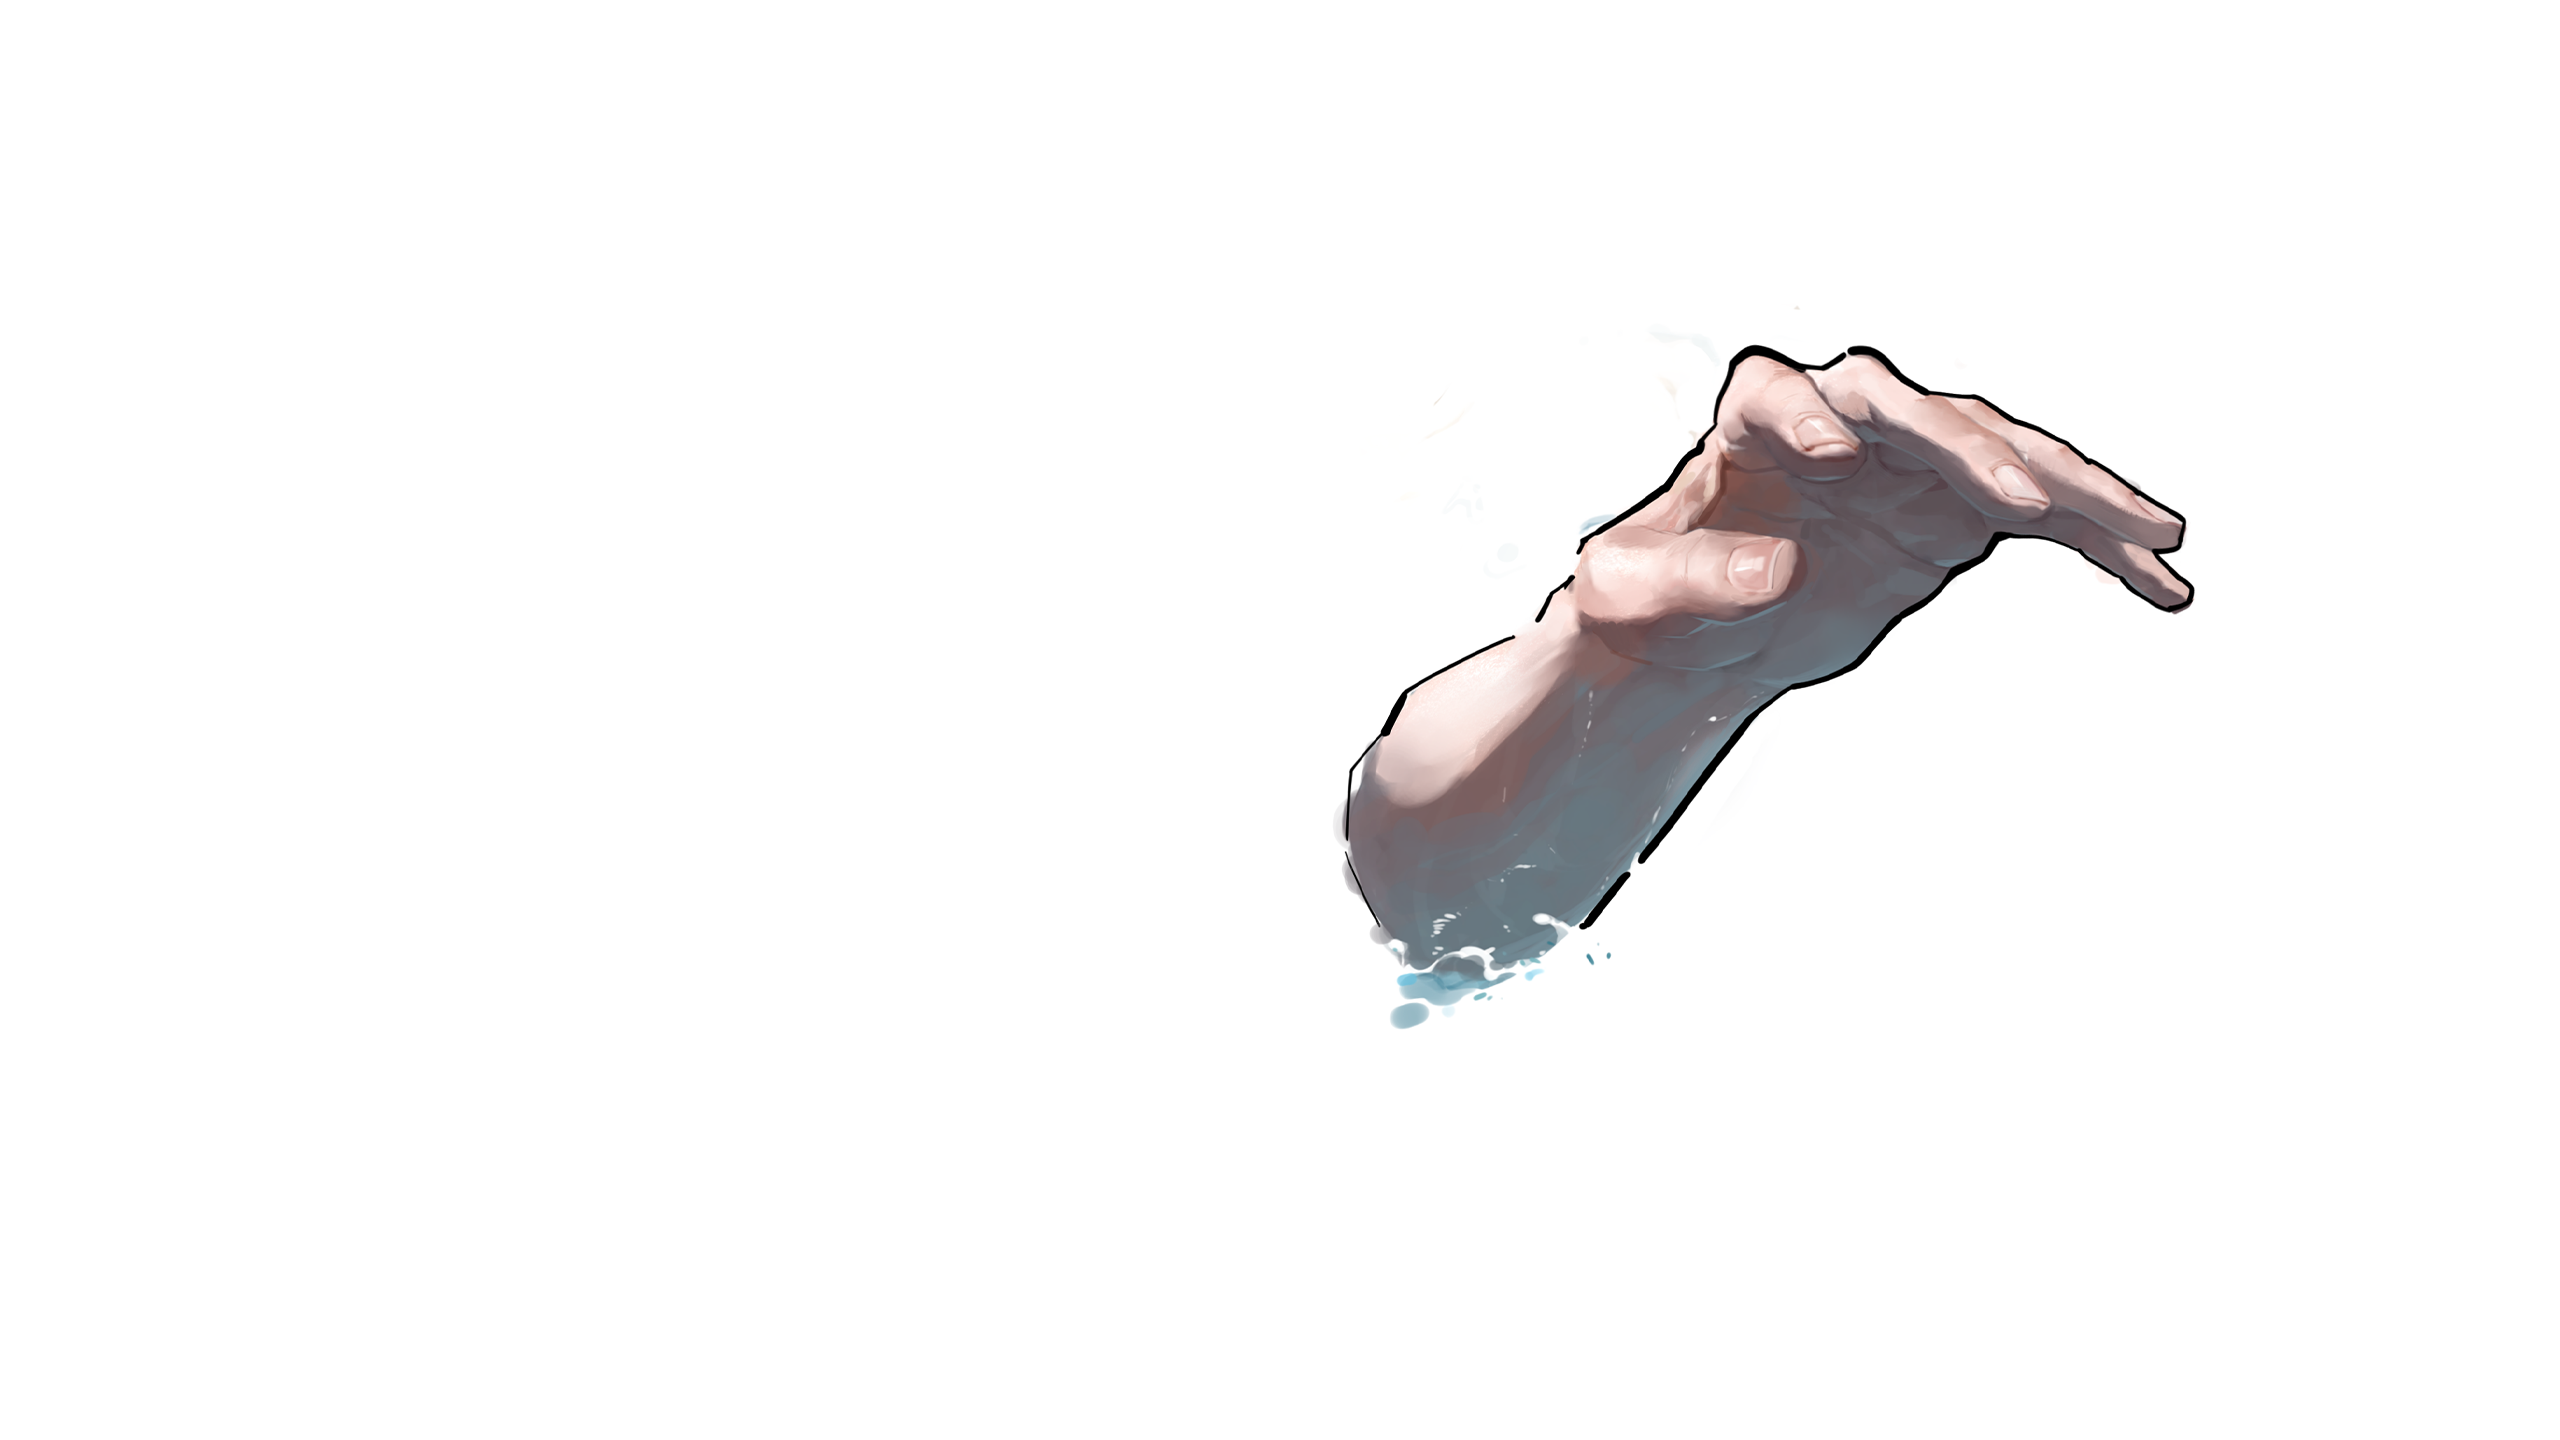
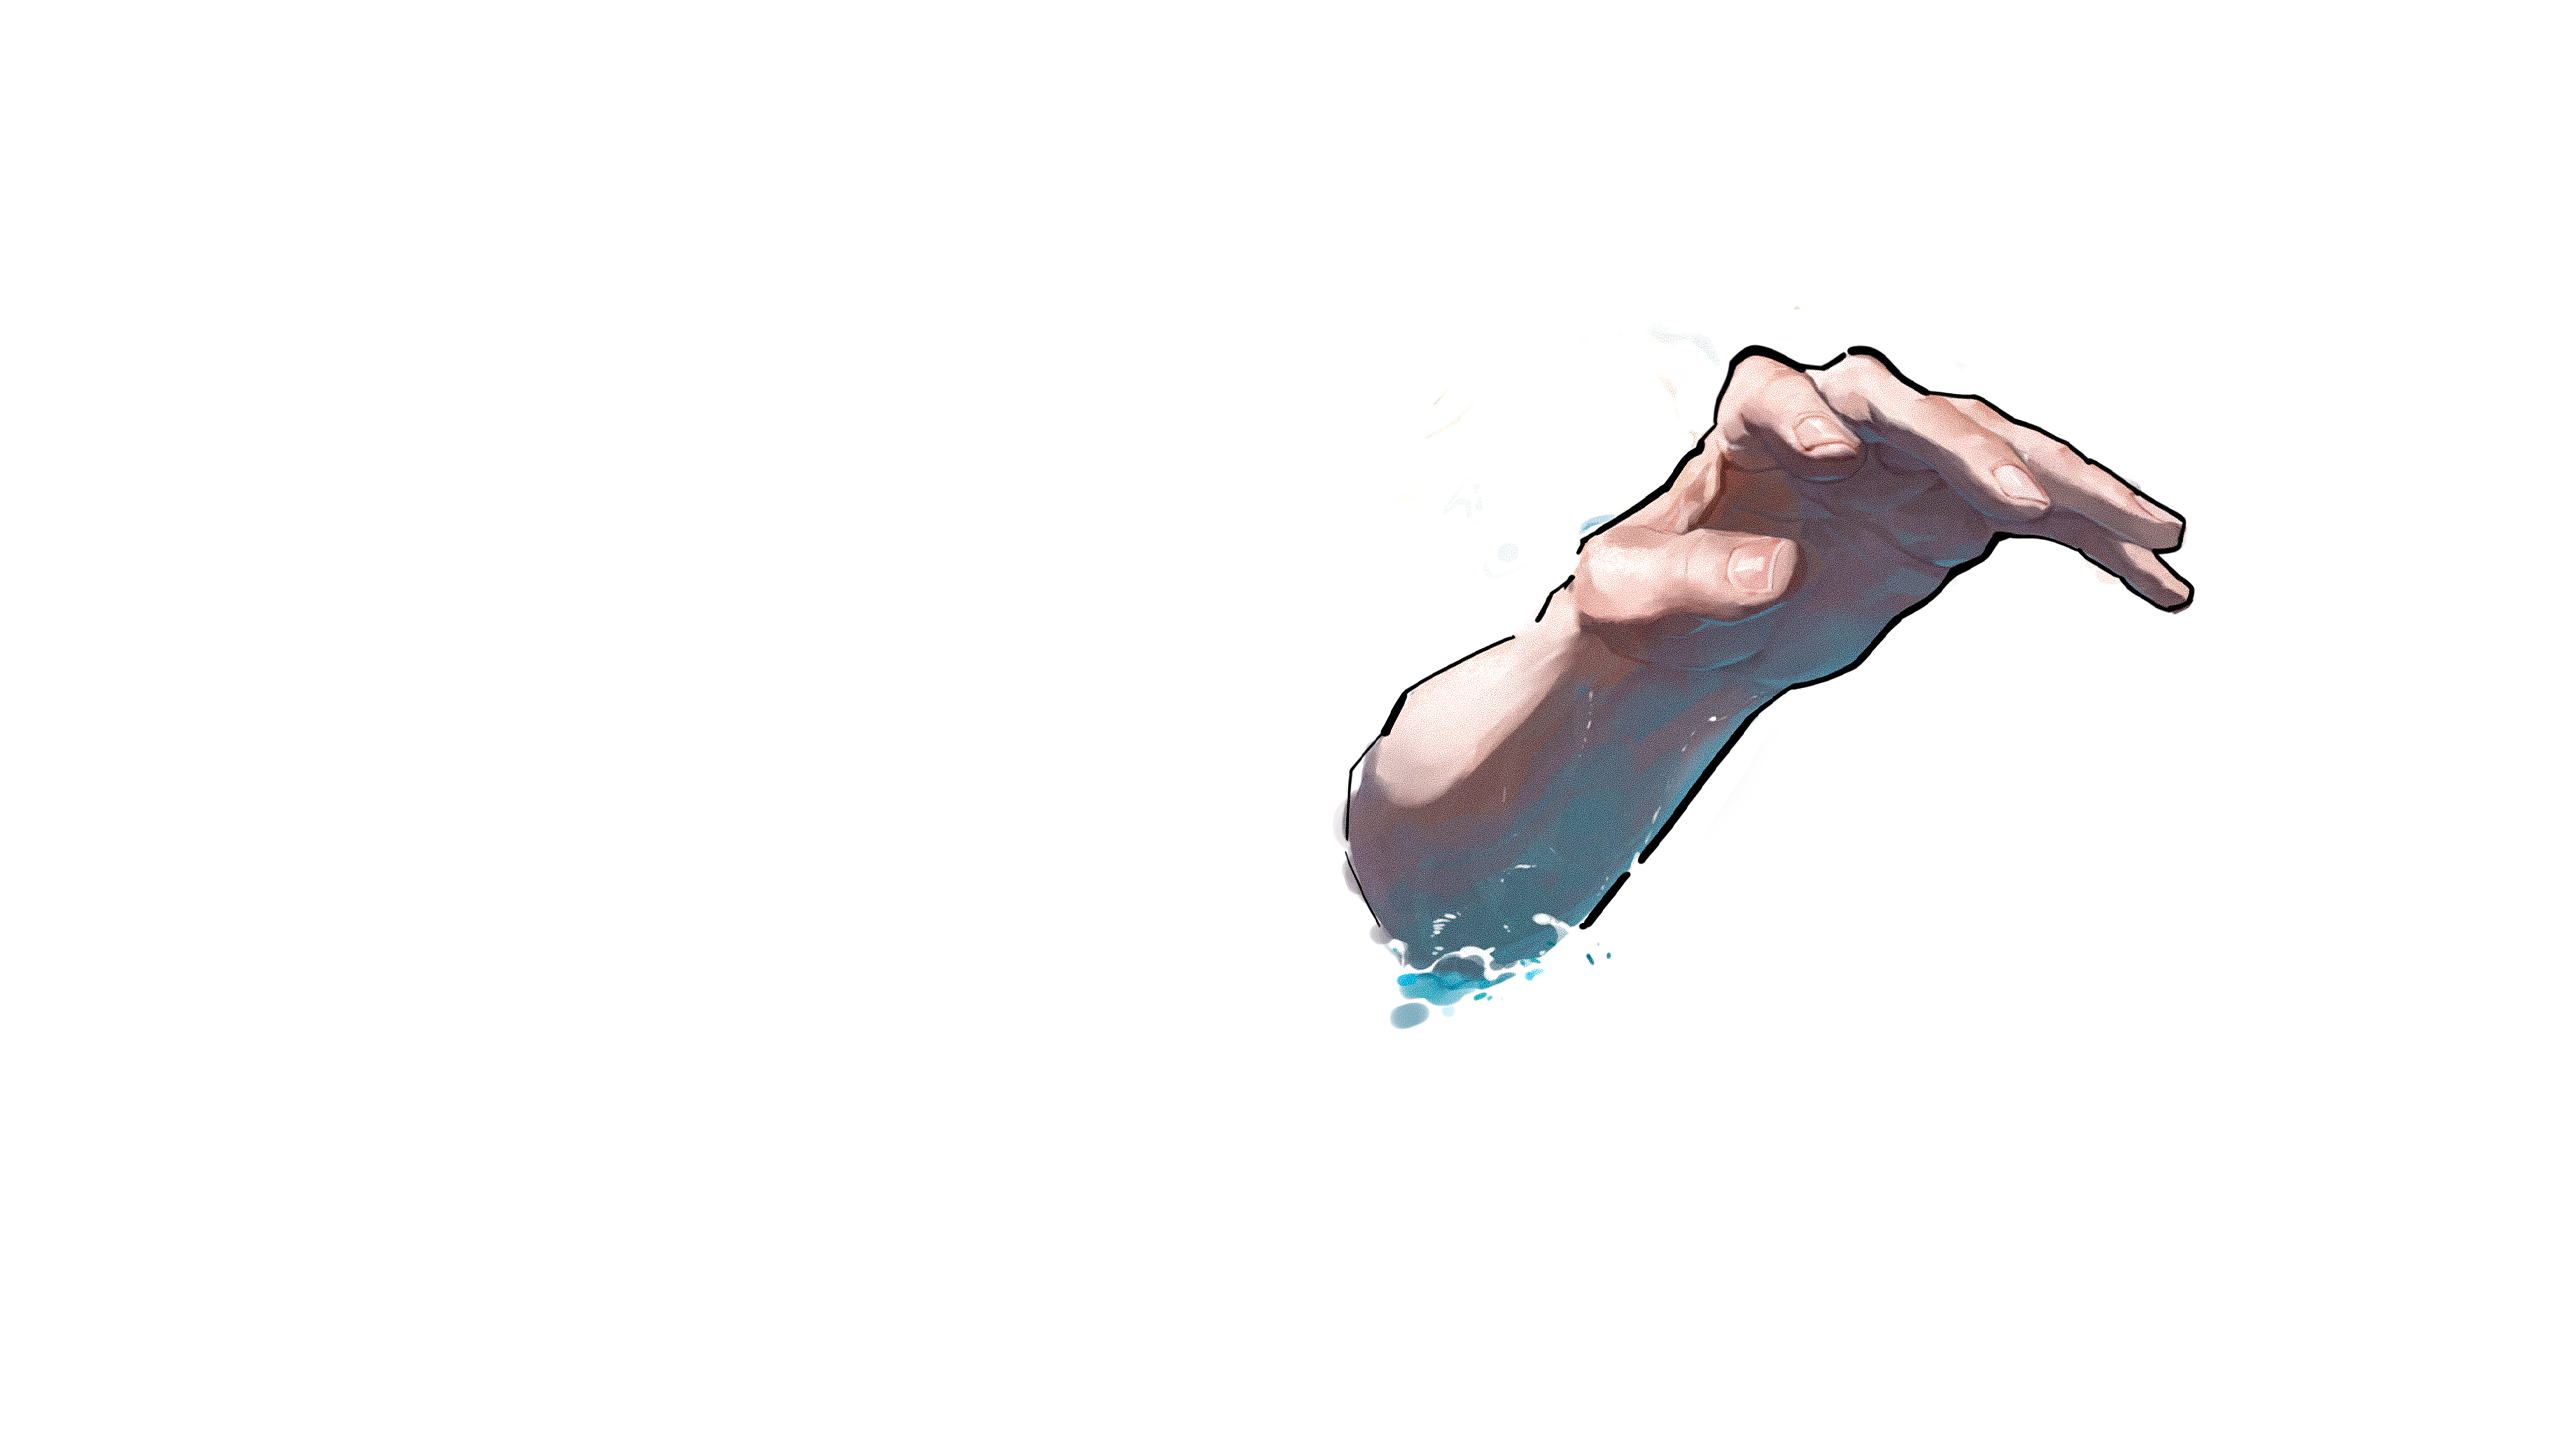
Refresh desktop and mobile stage artwork revision three

Changed region(s): [[0.5312, 0.2812, 0.75, 0.7188]]

diff --git a/index.html b/index.html
@@ -110,7 +110,7 @@
       </div>
     </div>
   </div>
-<div class="scene-layers hero-art hero-final" aria-hidden="true"><picture><source media="(max-width:700px)" srcset="assets/hero/stage-20260917/stage-02-mobile.png" width="1080" height="1920"><img class="hero-character" src="assets/hero/stage-20260917/stage-02-computer.png" width="2560" height="1440" alt="" fetchpriority="high"></picture><picture><source media="(max-width:700px)" srcset="assets/hero/stage-20260917/stage-03-mobile.png" width="1080" height="1920"><img class="hero-foreground" src="assets/hero/stage-20260917/stage-03-configure.png" width="2560" height="1440" alt=""></picture><picture><source media="(max-width:700px)" srcset="assets/hero/stage-20260917/stage-01-mobile.png" width="1080" height="1920"><img class="hero-frontmost" src="assets/hero/stage-20260917/stage-01-computer.png" width="2560" height="1440" alt=""></picture><picture><source media="(max-width:700px)" srcset="assets/hero/stage-20260917/stage-04-mobile.png" width="1080" height="1920"><img class="hero-droplets" src="assets/hero/stage-20260917/stage-04-computer.png" width="2560" height="1440" alt=""></picture></div>
+<div class="scene-layers hero-art hero-final" aria-hidden="true"><picture><source media="(max-width:700px)" srcset="assets/hero/stage-20260917/stage-02-mobile.png?v=20260917-r3" width="1080" height="1920"><img class="hero-character" src="assets/hero/stage-20260917/stage-02-computer.png?v=20260917-r3" width="2560" height="1440" alt="" fetchpriority="high"></picture><picture><source media="(max-width:700px)" srcset="assets/hero/stage-20260917/stage-03-mobile.png?v=20260917-r3" width="1080" height="1920"><img class="hero-foreground" src="assets/hero/stage-20260917/stage-03-configure.png?v=20260917-r3" width="2560" height="1440" alt=""></picture><picture><source media="(max-width:700px)" srcset="assets/hero/stage-20260917/stage-01-mobile.png?v=20260917-r3" width="1080" height="1920"><img class="hero-frontmost" src="assets/hero/stage-20260917/stage-01-computer.png?v=20260917-r3" width="2560" height="1440" alt=""></picture><picture><source media="(max-width:700px)" srcset="assets/hero/stage-20260917/stage-04-mobile.png?v=20260917-r3" width="1080" height="1920"><img class="hero-droplets" src="assets/hero/stage-20260917/stage-04-computer.png?v=20260917-r3" width="2560" height="1440" alt=""></picture></div>
 
 <div class="hero-edge"><span>INTRVL STUDIO / TAIWAN</span><a href="#works"><span class="lang-zh">向下探索</span><span class="lang-en">Scroll to explore</span><span class="lang-ko">아래로 탐색</span> ↓</a><button class="scene-pause" aria-pressed="false"><span class="lang-zh">暫停動態</span><span class="lang-en">Pause motion</span><span class="lang-ko">모션 일시 정지</span></button></div></header><main><section class="section works" id="works" aria-label="作品 / Stories"><div class="reel-backdrop" aria-hidden="true"></div><div class="works-grid" tabindex="0" aria-label="作品 / Stories"><a class="work reveal" href="work.html?id=steal" aria-label="扒進你心裡 — 作品介紹"><div class="work-image"><img src="assets/cover_steal.jpg" alt="扒進你心裡" loading="lazy"></div><div class="work-caption"><span>扒進你心裡</span><small><span class="lang-zh">愛情</span><span class="lang-en">Romance</span><span class="lang-ko">로맨스</span> <b>BL</b> <b>WEBTOON</b></small><span class="work-year">2026 · 執著死板攻x輕浮扒手受</span></div></a><a class="work reveal" href="work.html?id=delivery" aria-label="外送夥伴即將抵達 — 作品介紹"><div class="work-image"><img src="assets/cover_delivery.jpg" alt="外送夥伴即將抵達" loading="lazy"></div><div class="work-caption"><span>外送夥伴即將抵達</span><small><span class="lang-zh">愛情</span><span class="lang-en">Romance</span><span class="lang-ko">로맨스</span> <b>BL</b> <b>WEBTOON</b></small><span class="work-year">2025 · 衷心乖狗攻x網黃無助受</span></div></a><a class="work reveal" href="work.html?id=roommate" aria-label="我的室友帥哥學長 — 作品介紹"><div class="work-image"><img src="assets/media-20260917/roommate.png" alt="我的室友帥哥學長" loading="lazy"></div><div class="work-caption"><span>我的室友帥哥學長</span><small><span class="lang-zh">愛情</span><span class="lang-en">Romance</span><span class="lang-ko">로맨스</span> <b>BL</b> <b>WEBTOON</b></small><span class="work-year">2021 · 創傷包袱攻x陽光療癒受</span></div></a><a class="work reveal" href="work.html?id=pry" aria-label="窺 PRY — 作品介紹"><div class="work-image"><img src="assets/media-20260917/pry.png" alt="窺 PRY" loading="lazy"></div><div class="work-caption"><span>窺 PRY</span><small><span class="lang-zh">愛情</span><span class="lang-en">Romance</span><span class="lang-ko">로맨스</span> <b>BL</b> <b>WEBTOON</b></small><span class="work-year">2023 · 禁慾老男攻x受虐騷氣受</span></div></a><a class="work reveal" href="work.html?id=kill" aria-label="就要弄死你 — 作品介紹"><div class="work-image"><img src="assets/cover_kill.jpg" alt="就要弄死你" loading="lazy"></div><div class="work-caption"><span>就要弄死你</span><small><span class="lang-zh">愛情</span><span class="lang-en">Romance</span><span class="lang-ko">로맨스</span> <b>BL</b> <b>WEBTOON</b></small><span class="work-year">2024 · 易怒狼犬攻x欠幹奸詐受</span></div></a></div><a class="more-works" href="works.html"><span class="lang-zh">更多作品</span><span class="lang-en">More stories</span><span class="lang-ko">더 많은 작품</span> ↗</a></section><section class="section about" id="about"><h2 class="split-title about-title"><span class="lang-zh">之間是什麼？</span><span class="lang-en">WHAT IS INTRVL?</span><span class="lang-ko">INTRVL은 무엇인가요?</span></h2><div class="studio-blocks" aria-hidden="true"><div></div><div></div><div></div></div><div class="about-grid"><p><span class="lang-zh"><strong>Interval（間隔／節奏）</strong>代表了我們穩定的工作步調——堅持每週更新、從不間斷的心跳</span><span class="lang-en"><strong>Interval</strong> describes our steady rhythm — the heartbeat of weekly releases, without interruption</span><span class="lang-ko"><strong>Interval(간격·리듬)</strong>은 매주 멈추지 않고 이어가는 우리의 작업 리듬입니다</span></p></div></section><section class="numbers reveal">
   <div class="numbers-eyebrow">
